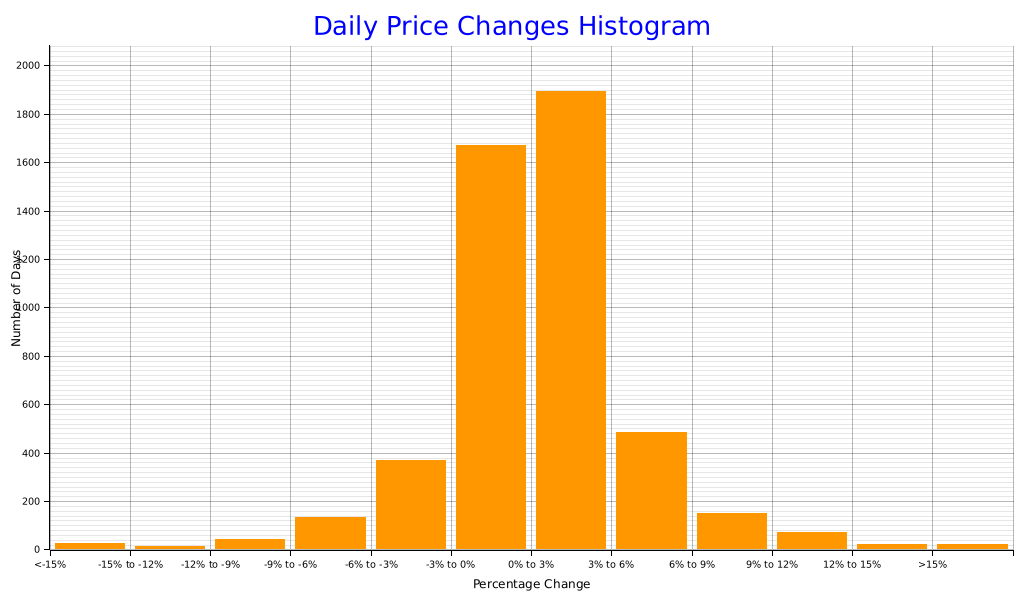
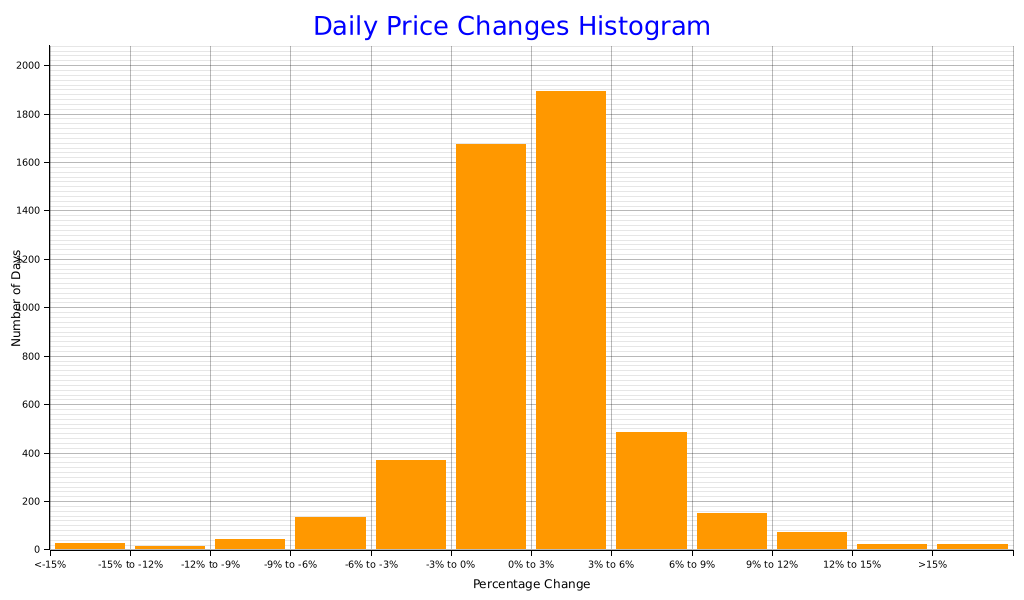
deploy: 32c38bfc33973f71076a7465fb8cd65e6d188ef2

diff --git a/index.html b/index.html
@@ -168,11 +168,11 @@
         </tr>
         <tr>
           <td>-3% to 0%</td>
-          <td>1672</td>
+          <td>1673</td>
         </tr>
         <tr>
           <td>0% to 3%</td>
-          <td>1893</td>
+          <td>1892</td>
         </tr>
         <tr>
           <td>3% to 6%</td>
@@ -225,12 +225,12 @@
             <td>104,126.79</td>
             <td>105,626.12</td>
             <td>103,757.03</td>
-            <td>104,320.50</td>
-            <td class='wma-column'>46,968.67</td>
-            <td>50.82 (0.10 %)</td>
-            <td>71,164.65 (214.6 %)</td>
+            <td>103,935.20</td>
+            <td class='wma-column'>46,968.41</td>
+            <td>50.55 (0.10 %)</td>
+            <td>70,779.35 (213.4 %)</td>
             <td>1,869.08 (1.7 %)</td>
-            <td>214.14 (0.2 %)</td>
+            <td>-171.15 (0.1 %)</td>
           </tr>
           <tr>
             <td>2025-05-11</td>
